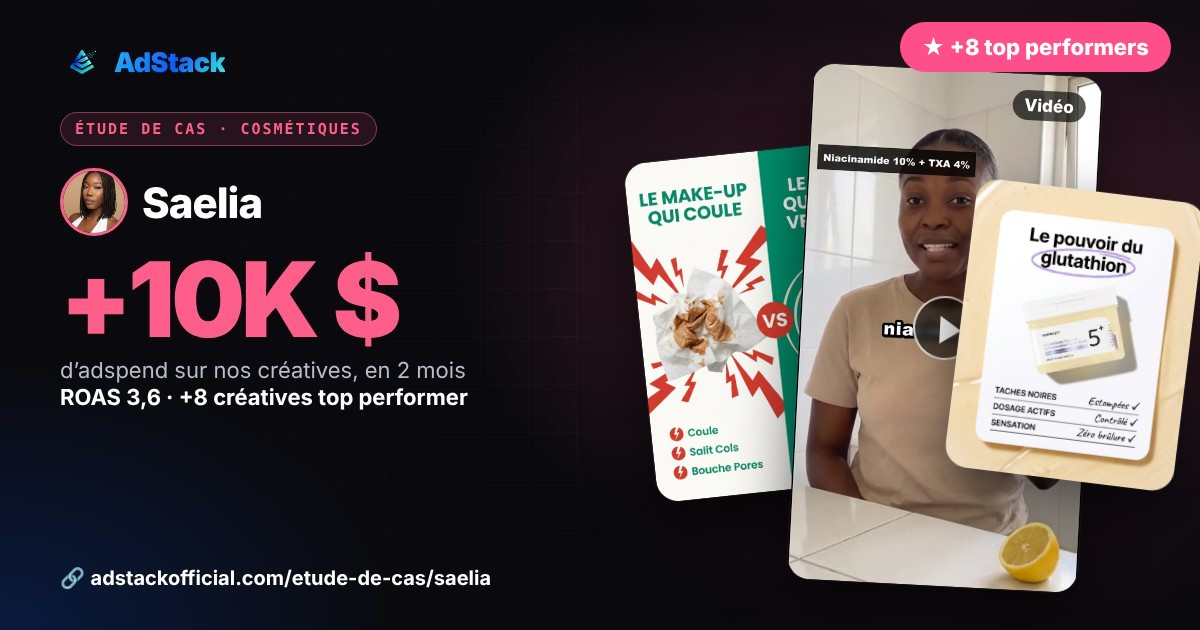
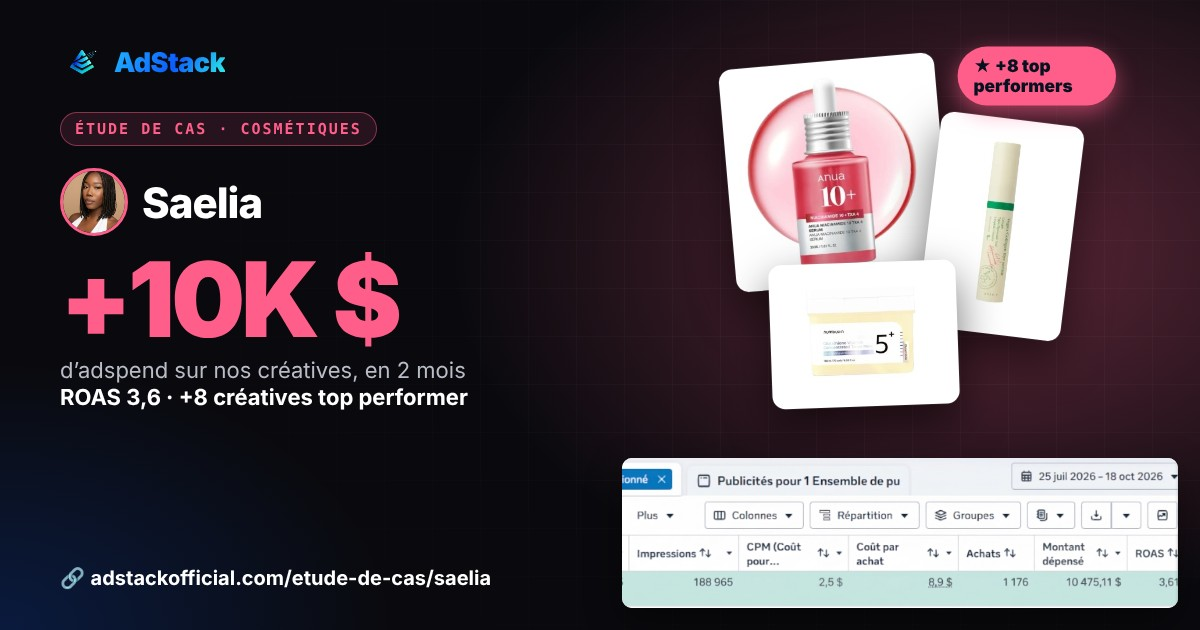
Saelia: preuve Ads Manager

diff --git a/public/etude-de-cas-saelia.html b/public/etude-de-cas-saelia.html
@@ -9,11 +9,11 @@
 <meta property="og:title" content="Saelia : +10K $ d’adspend, ROAS 3,6 | Étude de cas AdStack">
 <meta property="og:description" content="Étude de cas AdStack : une boutique de cosmétiques qui pensait avoir saturé son marché.">
 <meta property="og:url" content="https://www.adstackofficial.com/etude-de-cas/saelia">
-<meta property="og:image" content="https://www.adstackofficial.com/assets/miniatures/etude-de-cas-saelia.jpg?v=2">
+<meta property="og:image" content="https://www.adstackofficial.com/assets/miniatures/etude-de-cas-saelia.jpg?v=3">
 <meta property="og:image:width" content="1200">
 <meta property="og:image:height" content="630">
 <meta name="twitter:card" content="summary_large_image">
-<meta name="twitter:image" content="https://www.adstackofficial.com/assets/miniatures/etude-de-cas-saelia.jpg?v=2">
+<meta name="twitter:image" content="https://www.adstackofficial.com/assets/miniatures/etude-de-cas-saelia.jpg?v=3">
 
 <meta name="description" content="Comment une marque e-commerce a trouvé ses créatives gagnantes avec AdStack.">
 <link rel="icon" href="/favicon.ico">
@@ -47,6 +47,7 @@ h2{font-size:clamp(24px,3.6vw,34px);line-height:1.2;letter-spacing:-.5px;margin:
 .fig b{display:block;font-size:clamp(26px,4vw,40px);line-height:1.1;letter-spacing:-1px;background:linear-gradient(135deg,var(--a),#7fe3ff);-webkit-background-clip:text;background-clip:text;color:transparent}
 .fig span{display:block;margin-top:8px;font-size:13px;color:var(--mut)}
 .quote{display:grid;grid-template-columns:1fr;gap:22px}
+.proof{margin:0 0 4px}.proof img{display:block;width:100%;height:auto;border-radius:16px;border:1px solid rgba(255,255,255,.14);box-shadow:0 18px 50px rgba(0,0,0,.45)}.proof figcaption{margin-top:10px;font-size:13px;color:var(--mut)}
 .quote blockquote{margin:0;font-size:clamp(19px,2.6vw,26px);line-height:1.4;font-weight:600}
 .who{display:flex;align-items:center;gap:12px;margin-top:18px;font-size:14px;color:var(--mut)}
 .who img{width:52px;height:52px;border-radius:50%;object-fit:cover}
@@ -404,7 +405,7 @@ h+=figs((D.chiffres||[]).slice(0,4))+'</div></section>';
 var t=D.temoignage||{};
 if(t.texte||t.youtube){h+='<section class="s"><div class="wrap rv"><div class="eyebrow">Ce que dit le fondateur</div><h2>Entendu directement de la marque</h2><div class="quote">';
  if(t.youtube)h+='<div class="video"><iframe src="https://www.youtube-nocookie.com/embed/'+esc(t.youtube)+'" title="Témoignage" loading="lazy" allowfullscreen></iframe></div>';
- if(t.texte){h+='<div><blockquote>« '+esc(t.texte)+' »</blockquote>';
+ if(t.texte){h+='<div>'+(t.preuve&&t.preuve.img?'<figure class="proof"><img src="'+esc(t.preuve.img)+'" alt="" loading="lazy"></figure>':'')+'<blockquote>« '+esc(t.texte)+' »</blockquote>';
   if(t.nom)h+='<div class="who">'+(t.photo?'<img src="'+esc(t.photo)+'" alt="'+esc(t.nom)+'">':'')+'<div><b>'+esc(t.nom)+'</b>'+esc(t.role)+'</div></div>';
   h+='</div>'}
  h+='</div></div></section>'}

diff --git a/public/etude-de-cas-saelia-data.js b/public/etude-de-cas-saelia-data.js
@@ -32,6 +32,7 @@
   // Témoignage (texte retravaillé pour la lecture : à faire valider par la fondatrice avant publication)
   temoignage: {
     texte: "Je pensais avoir saturé mon marché. Je n’arrivais plus à trouver de nouvelles idées créatives, et mes résultats baissaient de plus en plus : c’était inquiétant. En quelques semaines, AdStack a tout remis en place, avec une excellente diversité créative. Ça a redonné vie à ma marque.",
+    preuve: { img: "/assets/vente/saelia-ads-manager.jpg" },
     nom: "Anissa Coli",
     role: "Owner de Saelia",
     photo: "/assets/vente/anissa-coli.jpg",
